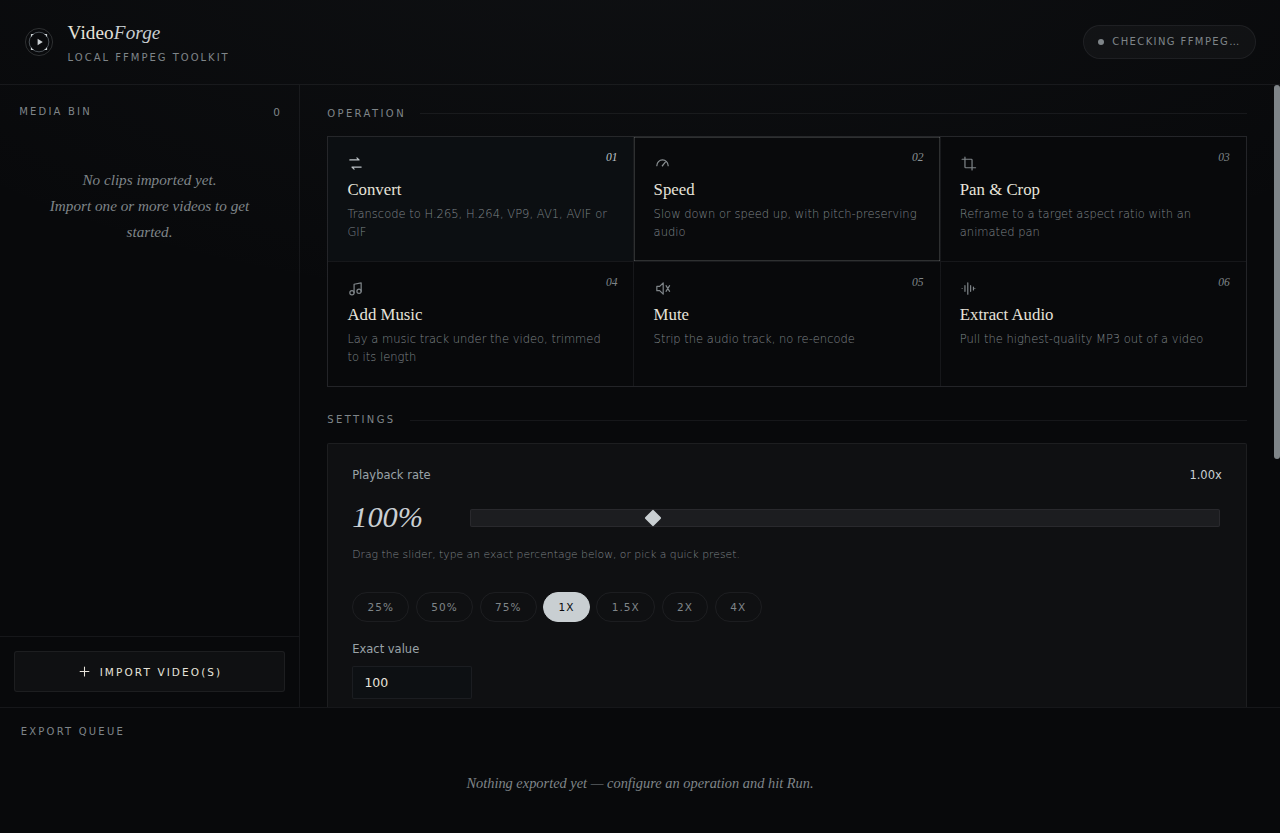
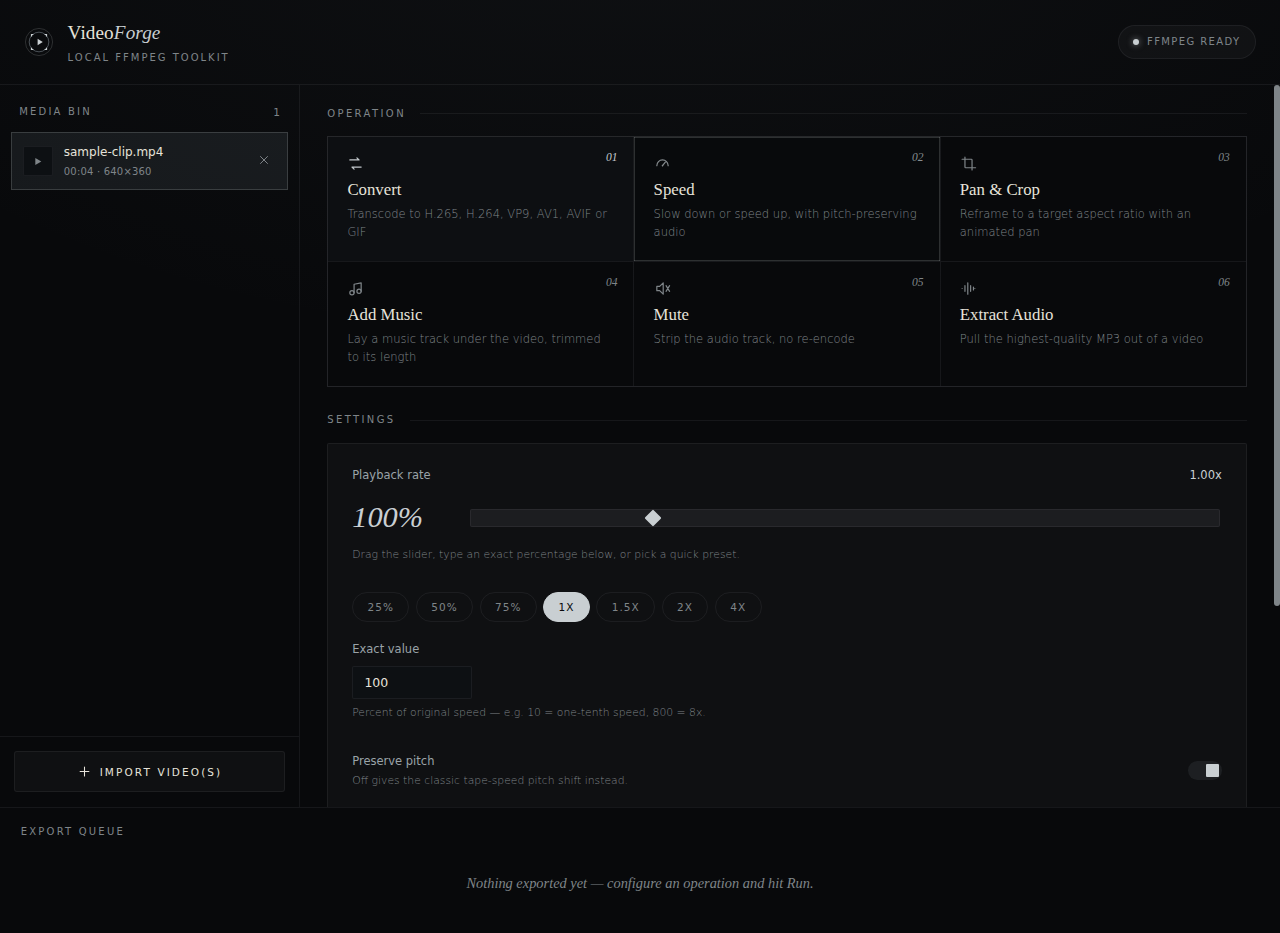
Add files via upload

diff --git a/README.md b/README.md
@@ -1,10 +1,9 @@
 <div align="center">
 
-<img src="docs/assets/banner.svg" alt="VideoForge" width="100%" />
+<img src="docs/assets/banner.svg" alt="VideoForge — a local, ffmpeg-powered desktop video editor" width="100%" />
 
 <br/>
 
-<!-- badges -->
 <img src="https://img.shields.io/badge/TypeScript-5.x-2a2e33?style=flat-square&logo=typescript&logoColor=c9cfd2" alt="TypeScript" />
 <img src="https://img.shields.io/badge/React-19-2a2e33?style=flat-square&logo=react&logoColor=c9cfd2" alt="React 19" />
 <img src="https://img.shields.io/badge/Electron-43-2a2e33?style=flat-square&logo=electron&logoColor=c9cfd2" alt="Electron 43" />
@@ -15,23 +14,16 @@
 
 <br/><br/>
 
-**A local, private, ffmpeg-powered desktop video editor.**
-No uploads, no accounts, no cloud rendering — your files never leave your machine.
+### Six things people export ffmpeg one-liners for, in one window.
+
+Convert, speed-ramp, crop-and-pan, mute, score, or extract audio — without memorizing a single flag, and without a single frame of your footage ever leaving your machine.
 
 <br/>
 
-<a href="#-quick-start">
-  <img src="https://img.shields.io/badge/▶_Quick_Start-7c8891?style=for-the-badge&logoColor=08090b" alt="Quick Start" />
-</a>
-<a href="#-features">
-  <img src="https://img.shields.io/badge/✦_Features-08090b?style=for-the-badge&logoColor=c9cfd2" alt="Features" />
-</a>
-<a href="#-architecture">
-  <img src="https://img.shields.io/badge/⬡_Architecture-08090b?style=for-the-badge&logoColor=c9cfd2" alt="Architecture" />
-</a>
-<a href="#-scripts">
-  <img src="https://img.shields.io/badge/⌘_Scripts-08090b?style=for-the-badge&logoColor=c9cfd2" alt="Scripts" />
-</a>
+<a href="#-quick-start"><img src="https://img.shields.io/badge/▶_Quick_Start-7c8891?style=for-the-badge&logoColor=08090b" alt="Quick Start" /></a>
+<a href="#-what-it-does"><img src="https://img.shields.io/badge/✦_What_It_Does-08090b?style=for-the-badge&logoColor=c9cfd2" alt="What It Does" /></a>
+<a href="#-architecture"><img src="https://img.shields.io/badge/⬡_Architecture-08090b?style=for-the-badge&logoColor=c9cfd2" alt="Architecture" /></a>
+<a href="#-scripts"><img src="https://img.shields.io/badge/⌘_Scripts-08090b?style=for-the-badge&logoColor=c9cfd2" alt="Scripts" /></a>
 
 </div>
 
@@ -39,82 +31,95 @@ No uploads, no accounts, no cloud rendering — your files never leave your mach
 
 ## Contents
 
-- [Screenshots](#-screenshots)
-- [Features](#-features)
+- [Why local](#why-local)
+- [What It Does](#-what-it-does)
 - [Quick Start](#-quick-start)
 - [Requirements](#-requirements)
 - [Architecture](#-architecture)
 - [Project Structure](#-project-structure)
 - [Scripts](#-scripts)
-- [Change Speed, in detail](#-change-speed-in-detail)
+- [Change Speed, in Detail](#-change-speed-in-detail)
 - [Production Build](#-production-build)
 - [Design System](#-design-system)
-- [Roadmap to Public Production](#-roadmap-to-public-production)
+- [Roadmap](#-roadmap-to-public-production)
 - [License](#-license)
 
 <br/>
 
-## 📸 Screenshots
+## Why local
+
+Every operation here has a web app that does the same thing — for a price. You upload your footage to someone else's server, wait in a queue, and hope the free tier doesn't watermark it. VideoForge skips all of that: **your video never leaves your disk.** ffmpeg does the work on your own CPU, in your own filesystem, with no account, no upload progress bar, and no limit on file size or minutes per month.
+
+<br/>
+
+## ✦ What It Does
+
+Pick a clip. Pick an operation. The right controls appear — nothing else.
+
+<table>
+<tr>
+<td width="60" align="center"><img src="docs/assets/icon-convert.svg" width="30" /></td>
+<td><strong>Convert</strong><br/><sub>H.265, H.264, VP9, AV1, AVIF, or GIF — four quality presets from "ultra compress" to "near lossless," so you pick an outcome, not a CRF number.</sub></td>
+</tr>
+<tr>
+<td align="center"><img src="docs/assets/icon-speed.svg" width="30" /></td>
+<td><strong>Speed</strong><br/><sub>5% to 1000%, by slider, preset, or exact percentage. Pitch stays natural by default — no chipmunk voice at 2×.</sub></td>
+</tr>
+<tr>
+<td align="center"><img src="docs/assets/icon-crop.svg" width="30" /></td>
+<td><strong>Pan &amp; Crop</strong><br/><sub>Reframe to 9:16, 4:5, 1:1, 16:9, or a custom ratio — with a slow animated pan across the leftover frame instead of a dead, static crop.</sub></td>
+</tr>
+<tr>
+<td align="center"><img src="docs/assets/icon-music.svg" width="30" /></td>
+<td><strong>Add Music</strong><br/><sub>Drop a track under a clip. It's trimmed or silence-padded to the exact frame automatically — no timeline math.</sub></td>
+</tr>
+<tr>
+<td align="center"><img src="docs/assets/icon-mute.svg" width="30" /></td>
+<td><strong>Mute</strong><br/><sub>A stream copy, not a re-encode — audio gone, video untouched, done in under a second.</sub></td>
+</tr>
+<tr>
+<td align="center"><img src="docs/assets/icon-audio.svg" width="30" /></td>
+<td><strong>Extract Audio</strong><br/><sub>The cleanest MP3 ffmpeg can pull from a video, at whatever bitrate you need, mono or stereo.</sub></td>
+</tr>
+</table>
+
+Every operation runs in **batch** — select ten clips, pick one destination folder, and ten correctly-named outputs come out the other side. (Add Music is the one exception: it needs exactly one video and one track, by nature.)
+
+<br/>
+
+<img src="docs/screenshots/media-bin.png" alt="A clip imported into VideoForge, with real duration and resolution shown" width="100%" />
+<p align="center"><sub>Import a clip and its real duration, resolution, and audio presence show up immediately — read straight off <code>ffprobe</code>, not guessed.</sub></p>
+
+<br/>
 
 <table>
 <tr>
 <td width="50%">
-<img src="docs/screenshots/operation-picker.png" alt="Operation picker" width="100%" />
-<p align="center"><sub>Six operations, one consistent card grid — pick an operation, its settings appear below.</sub></p>
+<img src="docs/screenshots/speed-control.png" alt="Speed control panel" width="100%" />
+<p align="center"><sub>Slider, presets, or an exact number — whichever's faster for you.</sub></p>
 </td>
 <td width="50%">
-<img src="docs/screenshots/speed-control.png" alt="Speed control panel" width="100%" />
-<p align="center"><sub>The new Speed operation — percent slider, quick presets, exact value, pitch-preserve toggle.</sub></p>
+<img src="docs/screenshots/pan-crop.png" alt="Pan and crop panel" width="100%" />
+<p align="center"><sub>Pick a ratio, pick a direction, done.</sub></p>
 </td>
 </tr>
 </table>
 
 <br/>
 
-## ✦ Features
-
-<table>
-<tr>
-<td width="60" align="center"><img src="docs/assets/icon-convert.svg" width="34" /></td>
-<td><strong>Convert</strong><br/><sub>Transcode to H.265, H.264, VP9, AV1, AVIF, or GIF — four quality presets from "ultra compress" to "near lossless."</sub></td>
-</tr>
-<tr>
-<td align="center"><img src="docs/assets/icon-speed.svg" width="34" /></td>
-<td><strong>Speed</strong><br/><sub>Slow down or speed up anywhere from 5% to 1000%, via a slider, quick presets (0.25×–4×), or an exact percentage. Pitch-preserving by default.</sub></td>
-</tr>
-<tr>
-<td align="center"><img src="docs/assets/icon-crop.svg" width="34" /></td>
-<td><strong>Pan &amp; Crop</strong><br/><sub>Reframe to any aspect ratio (9:16, 4:5, 1:1, 16:9, or custom) with an animated pan across the leftover frame instead of a static crop.</sub></td>
-</tr>
-<tr>
-<td align="center"><img src="docs/assets/icon-music.svg" width="34" /></td>
-<td><strong>Add Music</strong><br/><sub>Lay a track under a video, automatically trimmed or silence-padded to match its exact length.</sub></td>
-</tr>
-<tr>
-<td align="center"><img src="docs/assets/icon-mute.svg" width="34" /></td>
-<td><strong>Mute</strong><br/><sub>Strip the audio track with a stream copy — no re-encode, no quality loss, near-instant.</sub></td>
-</tr>
-<tr>
-<td align="center"><img src="docs/assets/icon-audio.svg" width="34" /></td>
-<td><strong>Extract Audio</strong><br/><sub>Pull the highest-quality MP3 out of any video, with selectable bitrate and mono downmix.</sub></td>
-</tr>
-</table>
-
-Every operation supports **batch mode** (except Add Music, which inherently needs one video + one track): select multiple clips, pick a destination folder once, and every output is named automatically with collision-safe suffixes.
+<img src="docs/screenshots/export-queue.png" alt="A completed export in the queue, showing before/after file size and the real output path" width="100%" />
+<p align="center"><sub>This is a real export, not a mockup — a 65KB test clip muted down to 28KB, with the actual output path shown underneath.</sub></p>
 
 <br/>
 
 ## 🚀 Quick Start
 
 ```bash
-# 1. Install dependencies
 npm install
-
-# 2. Launch the app (opens its own window — not a browser tab)
 npm run dev
 ```
 
-That's it. A desktop window titled **VideoForge** opens on its own. Don't visit `localhost:5173` in a browser — that's just the internal dev server; opening it directly gives you the UI with none of the filesystem/ffmpeg access, since only the Electron window has the bridge wired in.
+A window opens on its own. That's the app — not a browser tab. If you're tempted to check `localhost:5173` in Chrome instead: don't. That address is just how Vite talks to the Electron window internally; opening it yourself gets you the interface with none of the filesystem or ffmpeg access wired in, since only the Electron window has that bridge attached.
 
 <br/>
 
@@ -122,8 +127,8 @@ That's it. A desktop window titled **VideoForge** opens on its own. Don't visit 
 
 | Requirement | Notes |
 |---|---|
-| **Node.js** | 18+ recommended |
-| **ffmpeg** + **ffprobe** | Must be on your `PATH` — the app checks on launch and shows a status dot in the header |
+| **Node.js** | 18+ |
+| **ffmpeg** + **ffprobe** | On your `PATH` — the header's status pill tells you immediately if either is missing |
 
 <details>
 <summary><strong>Installing ffmpeg</strong></summary>
@@ -142,15 +147,15 @@ That's it. A desktop window titled **VideoForge** opens on its own. Don't visit 
 
 ## ⬡ Architecture
 
-<img src="docs/assets/architecture.svg" alt="Architecture diagram" width="100%" />
+<img src="docs/assets/architecture.svg" alt="Architecture diagram: renderer, window.api bridge, main process, ffmpeg" width="100%" />
 
-The renderer (React) **never** touches the filesystem or spawns processes directly — `contextIsolation` and `sandbox` are both on. Everything crosses through a single typed bridge, `window.api`, exposed by `preload.ts`. On the other side, the main process has exactly one authority for each concern:
+The interface never touches your disk directly — `contextIsolation` and `sandbox` are both on. Every request crosses through one typed bridge, `window.api`, and on the other side, each concern has exactly one owner:
 
-| Concern | Owner | Why it's centralized |
+| Concern | Owner | Why it's singular |
 |---|---|---|
-| **Naming output files** | `OutputResolver` | Single-file "Save As" and multi-clip "export to folder" both resolve through the same collision-safe naming policy — no operation invents its own suffix convention. |
-| **Running ffmpeg** | `JobQueueManager` | Caps concurrency (2 jobs at once, tunable), queues the rest, owns cancellation, emits the only progress/done events in the app. |
-| **ffmpeg argument-building** | `FfmpegJob` subclasses | One class per operation (`ConvertVideoJob`, `ChangeSpeedJob`, `PanCropJob`, …), each implementing just `buildArgs()`. Adding a 7th operation means adding one class + one catalog entry — nothing else changes. |
+| **Naming an output file** | `OutputResolver` | One "Save As" dialog and one batch-export-to-folder flow, both resolving through the same collision-safe naming rule — never two conventions fighting each other. |
+| **Running ffmpeg** | `JobQueueManager` | Caps concurrency at 2 jobs, queues the rest, owns cancellation, and is the only thing in the app allowed to emit progress. |
+| **Building ffmpeg arguments** | One `FfmpegJob` subclass per operation | A 7th operation means one new class implementing `buildArgs()` — everything else in the app stays exactly as it is. |
 
 <br/>
 
@@ -158,37 +163,37 @@ The renderer (React) **never** touches the filesystem or spawns processes direct
 
 ```
 src/
-├─ shared/                    # The ONE contract both processes import
-│  ├─ types.ts                  Every IPC payload, typed
-│  └─ operationCatalog.ts       Operation metadata (title, suffix, ext, batch support)
+├─ shared/                    # The one contract both processes agree on
+│  ├─ types.ts                  Every IPC payload, fully typed
+│  └─ operationCatalog.ts       Operation metadata: title, suffix, extension, batch support
 │
-├─ main/                      # Node process — the only code that touches
+├─ main/                      # Node process — the only code touching
 │  │                          # fs, child_process, or native dialogs
-│  ├─ main.ts                   Thin IPC layer, wires dialogs + services
+│  ├─ main.ts                   Thin IPC layer, wires dialogs to services
 │  ├─ preload.ts                contextBridge — the only surface the UI sees
 │  ├─ ffmpeg/
 │  │  ├─ FfmpegJob.ts            Abstract base: spawn, parse -progress, resolve
 │  │  ├─ ConvertVideoJob.ts   ┐
 │  │  ├─ ExtractAudioJob.ts   │  One class per operation, each ported 1:1
-│  │  ├─ MuteVideoJob.ts      │  from the original ffmpeg command-line logic
+│  │  ├─ MuteVideoJob.ts      │  from real ffmpeg command-line usage
 │  │  ├─ PanCropJob.ts        │
 │  │  ├─ MergeMusicJob.ts     │
 │  │  ├─ ChangeSpeedJob.ts    ┘  atempo-chained, pitch-preserving speed control
 │  │  ├─ JobFactory.ts          Maps an operation kind → its Job class
 │  │  └─ probe.ts               ffprobe wrapper
 │  └─ services/
-│     ├─ OutputResolver.ts      The ONLY place output paths are decided
-│     └─ JobQueueManager.ts     The ONLY place ffmpeg jobs are run
+│     ├─ OutputResolver.ts      The one place output paths get decided
+│     └─ JobQueueManager.ts     The one place ffmpeg jobs get run
 │
-└─ renderer/                  # React UI — talks to window.api only
+└─ renderer/                  # React UI — talks to window.api, nothing else
    ├─ state/
-   │  ├─ Store.ts                Tiny observable-snapshot base class
-   │  ├─ ClipLibrary.ts          Imported clips + selection, single source of truth
+   │  ├─ Store.ts                Small observable-snapshot base class
+   │  ├─ ClipLibrary.ts          Imported clips + selection, one source of truth
    │  └─ JobQueueStore.ts        Mirrors JobQueueManager on the UI side
    └─ components/
-      ├─ ClipBin.tsx             Left panel — import, list, select clips
-      ├─ OperationPanel.tsx      Center — operation picker + settings + run
-      └─ JobQueue.tsx            Bottom — live queue, progress, cancel, results
+      ├─ ClipBin.tsx             Left — import, list, select
+      ├─ OperationPanel.tsx      Center — pick an operation, configure, run
+      └─ JobQueue.tsx            Bottom — live progress, cancel, results
 ```
 
 <br/>
@@ -197,59 +202,59 @@ src/
 
 | Command | What it does |
 |---|---|
-| `npm run dev` | Launches the full dev app — Vite, a TypeScript watcher for the backend, and the Electron window, together |
-| `npm run build` | Production build of both the renderer bundle and the compiled main/preload process |
-| `npm start` | Runs the production build (`npm run build` first) |
-| `npm run package` | Builds platform installers via `electron-builder`, fetched on demand with `npx` |
+| `npm run dev` | The full dev app — Vite, a backend TypeScript watcher, and the Electron window, together |
+| `npm run build` | Production build of the renderer bundle and the compiled main/preload process |
+| `npm start` | Runs the production build |
+| `npm run package` | Builds platform installers via `electron-builder`, fetched on demand |
 
 <br/>
 
-## 🐇 Change Speed, in detail
+## 🐇 Change Speed, in Detail
 
-The playback-rate UI is a percent slider (10%–400%) with presets and an exact-number field — feed it `1x`, `2x`, `10%`, `80%`, whatever's easiest.
+The playback-rate control is a percent slider (10%–400%) with quick presets and an exact-value field — hand it `1x`, `2x`, `10%`, `80%`, whatever's fastest to type.
 
 - **Video** — `setpts=(1/rate)*PTS` scales presentation timestamps directly.
-- **Audio, pitch-preserved** *(default)* — ffmpeg's `atempo` filter only accepts 0.5–2.0 per stage, so rates outside that range are reached by **chaining multiple `atempo` stages** that multiply out to the requested rate (e.g. 4× = `atempo=2.0,atempo=2.0`) — the standard way to go beyond ffmpeg's single-stage limit without pitch artifacts.
-- **Audio, pitch not preserved** *(toggle)* — `asetrate` + `aresample`, giving the classic tape speed-up/slow-down effect.
+- **Audio, pitch-preserved** *(default)* — ffmpeg's `atempo` filter only accepts 0.5–2.0 per stage, so anything outside that range is reached by **chaining multiple `atempo` stages** that multiply out to the target rate (4× becomes `atempo=2.0,atempo=2.0`) — the standard way past ffmpeg's single-stage ceiling without pitch artifacts.
+- **Audio, pitch not preserved** *(toggle)* — `asetrate` + `aresample`, for the classic tape speed-up/slow-down effect.
 
 <br/>
 
 ## 📦 Production Build
 
 ```bash
-npm run build       # compiles main + preload, builds the renderer
-npm run package      # builds installers via electron-builder (fetched on demand)
+npm run build
+npm run package
 ```
 
-> **Why `electron-builder` isn't a direct dependency:** every current Electron packaging tool — `electron-builder`, and even the officially-recommended `@electron-forge/cli` — pulls in a handful of old transitive packages via `@electron/get` internals that haven't been modernized upstream. Since you only need a packager when cutting an installer, it's fetched on demand via `npx` only when `npm run package` runs, keeping `npm install` itself at zero deprecation warnings.
+> **Why `electron-builder` isn't a listed dependency:** every current Electron packaging tool — `electron-builder`, and even the officially-recommended `@electron-forge/cli` — pulls in old transitive packages through `@electron/get` internals that haven't been modernized upstream. Since a packager is only needed when cutting an installer, it's fetched on demand via `npx` the moment `npm run package` actually runs — keeping `npm install` itself at zero deprecation warnings.
 
 <br/>
 
 ## 🎨 Design System
 
-VideoForge's entire visual identity — palette, type, radius, motion — is drawn directly from **[hassanireza.github.io](https://hassanireza.github.io)**'s real design tokens (`src/styles/tokens.css`) and its `/branding` case study, not a generic dark theme:
+VideoForge's palette, type, radius, and motion are pulled directly from **[hassanireza.github.io](https://hassanireza.github.io)**'s real design tokens — not a generic dark theme with a new coat of paint.
 
-| Token | Value | Where it comes from |
+| Token | Value | Source |
 |---|---|---|
 | Background | `#08090b` / `#0d1013` / `#12161a` | Exact `--bg` / `--bg-2` / `--bg-3` |
 | Text | `#e6e3da` / `#9aa3a8` / `#7f8589` | Exact `--text` / `--text-2` / `--text-3` |
-| Accent | `#7c8891` → `#c9cfd2` on hover/active | Exact `--accent` / `--accent-bright` |
-| Display type | *Cormorant Garamond*, italic for emphasis | Exact `--font-display` |
+| Accent | `#7c8891` → `#c9cfd2` on hover | Exact `--accent` / `--accent-bright` |
+| Display type | Cormorant Garamond, italic for emphasis | Exact `--font-display` |
 | Body type | Jost, uppercase + wide tracking for labels | Exact `--font-body` |
-| Radius | 2–3px on cards/buttons; 99px reserved only for floating chrome | Same "sharp everywhere, pill only for chrome" rule |
+| Radius | 2–3px on cards and buttons; 99px reserved only for floating chrome | Same "sharp everywhere, pill only for chrome" rule |
 | Borders | Hairline `rgba(214,219,222,.07)`, brightening to `.18` on hover | Same opacity-only border system |
-| Buttons | Idle → outline; hover **inverts** to solid accent, letter-spacing widens | Same motion as the site's `.submit-btn` |
+| Buttons | Idle outline → hover inverts to solid, letter-spacing widens | Same motion as the source site's `.submit-btn` |
 
-A few identity touches carried over deliberately: the wordmark splits roman + italic serif (`Video` / *Forge*) the same way the source splits first/last name; operation cards are numbered with `counter(op, decimal-leading-zero)` the same way their project cards are; the operation grid uses a 1px hairline-as-grid-gap technique straight from their palette/mark grids.
+A few identity details carried over on purpose: the wordmark splits roman + italic serif (`Video` / *Forge*) the way the source splits a first and last name; operation cards are numbered with `counter(op, decimal-leading-zero)`, the same technique behind their project cards; the six-operation grid uses a 1px hairline-as-grid-gap trick straight out of their palette and mark-grid diagrams.
 
 <br/>
 
 ## 🗺 Roadmap to Public Production
 
-This is a correctly-architected local tool, but shipping it *beyond your own machine* would still want:
+This is a correctly-architected local tool. Taking it further than your own machine would still want:
 
 - [ ] Code signing & auto-update (`electron-builder` supports both — needs your signing certs)
-- [ ] Bundling ffmpeg itself (e.g. `ffmpeg-static`) instead of requiring it on `PATH`
+- [ ] Bundling ffmpeg itself (`ffmpeg-static`) instead of requiring it on `PATH`
 - [ ] Automated tests — the ffmpeg argument-building logic in each `*Job.ts` is pure and easy to unit test
 - [ ] Real thumbnail generation in the media bin (currently a placeholder icon)
 - [ ] Crash/telemetry reporting
